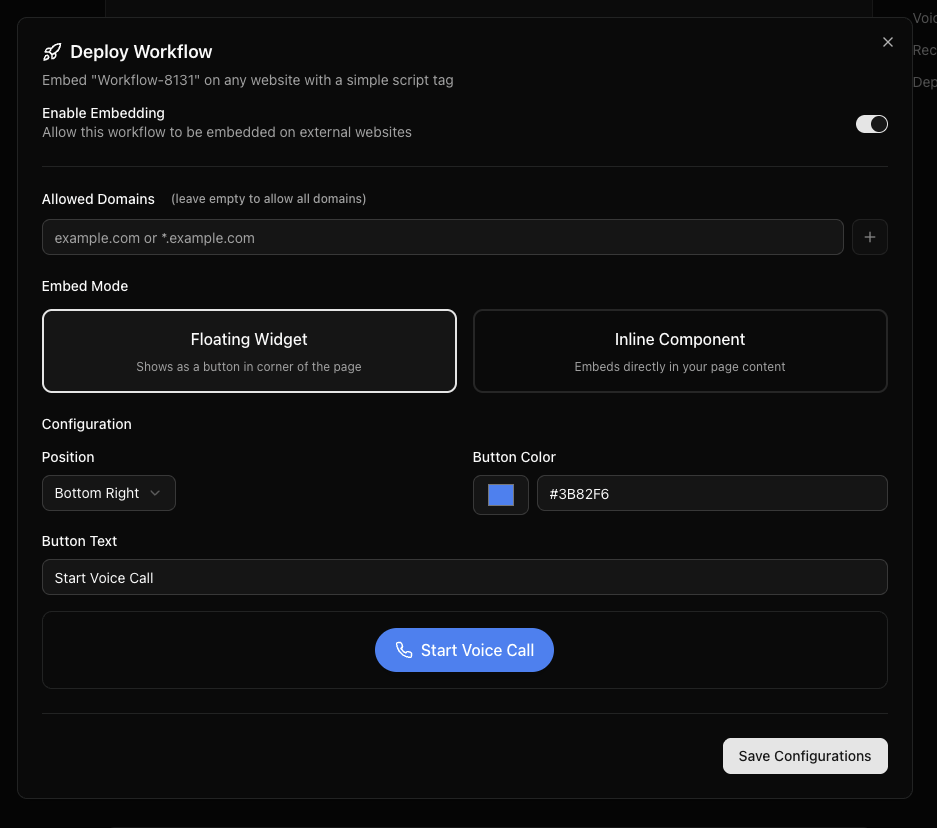
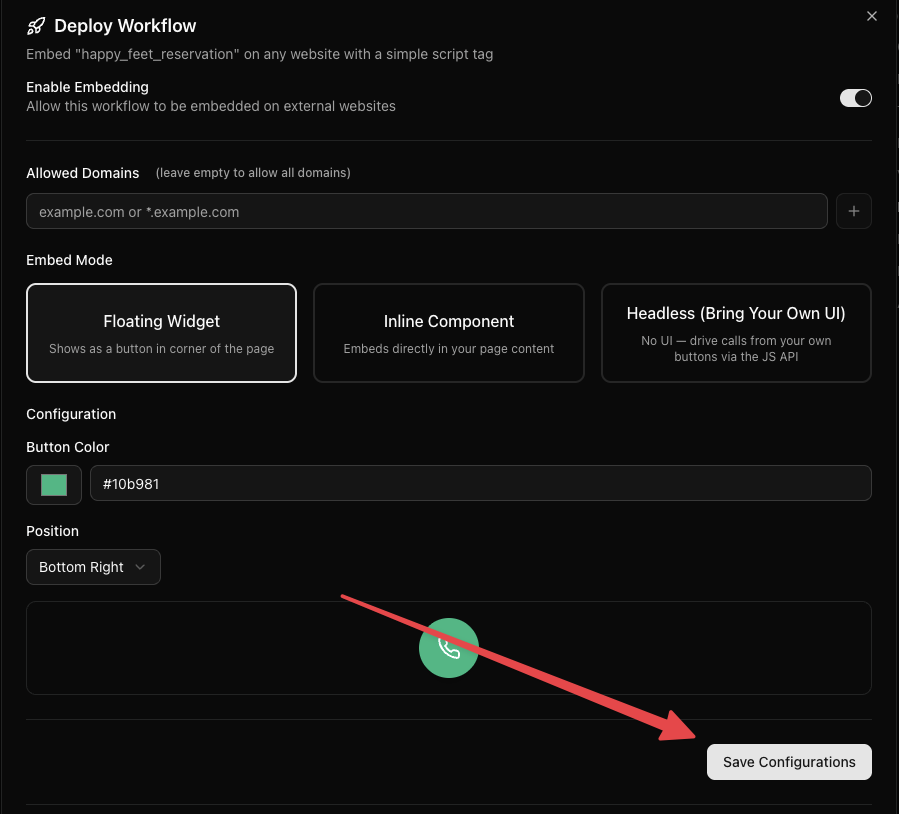
feat: add headless widget for deployment

diff --git a/ui/src/app/workflow/[workflowId]/components/EmbedDialog.tsx b/ui/src/app/workflow/[workflowId]/components/EmbedDialog.tsx
@@ -61,7 +61,7 @@ export function EmbedDialog({
     const [isEnabled, setIsEnabled] = useState(false);
     const [domains, setDomains] = useState<string[]>([]);
     const [newDomain, setNewDomain] = useState("");
-    const [embedMode, setEmbedMode] = useState<"floating" | "inline">("floating");
+    const [embedMode, setEmbedMode] = useState<"floating" | "inline" | "headless">("floating");
     const [position, setPosition] = useState("bottom-right");
     const [buttonText, setButtonText] = useState("Start Call");
     const [buttonColor, setButtonColor] = useState("#10b981");
@@ -81,7 +81,7 @@ export function EmbedDialog({
                 // Load settings
                 if (response.data.settings) {
                     const settings = response.data.settings as Record<string, string>;
-                    setEmbedMode((settings.embedMode as "floating" | "inline") || "floating");
+                    setEmbedMode((settings.embedMode as "floating" | "inline" | "headless") || "floating");
                     setPosition(settings.position || "bottom-right");
                     setButtonText(settings.buttonText || "Start Call");
                     setButtonColor(settings.buttonColor || "#10b981");
@@ -266,7 +266,7 @@ export function EmbedDialog({
                                 {/* Embed Mode Selection */}
                                 <div className="space-y-4">
                                     <Label>Embed Mode</Label>
-                                    <div className="grid grid-cols-2 gap-4">
+                                    <div className="grid grid-cols-3 gap-4">
                                         <button
                                             type="button"
                                             onClick={() => setEmbedMode("floating")}
@@ -299,6 +299,22 @@ export function EmbedDialog({
                                                 </div>
                                             </div>
                                         </button>
+                                        <button
+                                            type="button"
+                                            onClick={() => setEmbedMode("headless")}
+                                            className={`p-4 rounded-lg border-2 transition-all ${
+                                                embedMode === "headless"
+                                                    ? "border-primary bg-primary/5"
+                                                    : "border-muted hover:border-muted-foreground/20"
+                                            }`}
+                                        >
+                                            <div className="space-y-2">
+                                                <div className="font-medium">Headless (Bring Your Own UI)</div>
+                                                <div className="text-xs text-muted-foreground">
+                                                    No UI — drive calls from your own buttons via the JS API
+                                                </div>
+                                            </div>
+                                        </button>
                                     </div>
                                 </div>
 
@@ -306,26 +322,28 @@ export function EmbedDialog({
                                 <div className="space-y-4">
                                     <Label>Configuration</Label>
 
-                                    {/* Shared: Button Color */}
-                                    <div className="space-y-2">
-                                        <Label htmlFor="button-color" className="text-sm">Button Color</Label>
-                                        <div className="flex gap-2">
-                                            <Input
-                                                id="button-color-picker"
-                                                type="color"
-                                                value={buttonColor}
-                                                onChange={(e) => setButtonColor(e.target.value)}
-                                                className="w-14 h-10 cursor-pointer"
-                                            />
-                                            <Input
-                                                id="button-color"
-                                                value={buttonColor}
-                                                onChange={(e) => setButtonColor(e.target.value)}
-                                                placeholder="#10b981"
-                                                className="flex-1"
-                                            />
+                                    {/* Shared: Button Color (skipped in headless — host renders its own UI) */}
+                                    {embedMode !== "headless" && (
+                                        <div className="space-y-2">
+                                            <Label htmlFor="button-color" className="text-sm">Button Color</Label>
+                                            <div className="flex gap-2">
+                                                <Input
+                                                    id="button-color-picker"
+                                                    type="color"
+                                                    value={buttonColor}
+                                                    onChange={(e) => setButtonColor(e.target.value)}
+                                                    className="w-14 h-10 cursor-pointer"
+                                                />
+                                                <Input
+                                                    id="button-color"
+                                                    value={buttonColor}
+                                                    onChange={(e) => setButtonColor(e.target.value)}
+                                                    placeholder="#10b981"
+                                                    className="flex-1"
+                                                />
+                                            </div>
                                         </div>
-                                    </div>
+                                    )}
 
                                     {/* Floating mode: Position */}
                                     {embedMode === "floating" && (
@@ -371,8 +389,8 @@ export function EmbedDialog({
                                         </>
                                     )}
 
-                                    {/* Preview */}
-                                    {embedMode === "floating" ? (
+                                    {/* Preview (skipped for headless — host renders its own UI) */}
+                                    {embedMode === "headless" ? null : embedMode === "floating" ? (
                                         <div className="rounded-lg border bg-background p-4 flex items-center justify-center">
                                             <div
                                                 className="w-[60px] h-[60px] rounded-full flex items-center justify-center shadow-lg"
@@ -406,6 +424,64 @@ export function EmbedDialog({
                                                 >
                                                     {buttonText}
                                                 </button>
+                                            </div>
+                                        </div>
+                                    )}
+
+                                    {/* Headless mode: Integration Instructions */}
+                                    {embedMode === "headless" && (
+                                        <div className="space-y-3">
+                                            <div className="rounded-lg bg-muted/50 p-4">
+                                                <h4 className="font-medium mb-2">Integration Instructions</h4>
+                                                <ul className="text-sm space-y-2 text-muted-foreground">
+                                                    <li>• Add the embed script tag to your page (see below).</li>
+                                                    <li>• The widget renders no UI — render your own buttons.</li>
+                                                    <li>• Call <code className="text-xs">window.DograhWidget.start()</code> to begin a call.</li>
+                                                    <li>• Call <code className="text-xs">window.DograhWidget.end()</code> to end it.</li>
+                                                    <li>• Subscribe to <code className="text-xs">onCallStart</code>, <code className="text-xs">onCallEnd</code>, <code className="text-xs">onStatusChange</code>, <code className="text-xs">onError</code> to drive your UI.</li>
+                                                    <li>• <code className="text-xs">start()</code> must run inside a user-gesture handler (click) so the browser grants microphone access.</li>
+                                                </ul>
+                                            </div>
+
+                                            <div className="rounded-lg bg-blue-50 dark:bg-blue-950/20 p-4 border border-blue-200 dark:border-blue-800">
+                                                <h4 className="font-medium mb-2 text-blue-900 dark:text-blue-100">Example — track status in your own state</h4>
+                                                <p className="text-xs text-blue-900/80 dark:text-blue-100/80 mb-2">
+                                                    Mirror the call status into a variable you control, then render whatever UI you like from it. The status values are <code className="text-xs">idle</code>, <code className="text-xs">connecting</code>, <code className="text-xs">connected</code>, <code className="text-xs">failed</code>.
+                                                </p>
+                                                <pre className="text-xs overflow-x-auto">
+                                                    <code className="text-blue-800 dark:text-blue-200">{`// Vanilla JS — keep your own state, render however you want
+let callStatus = 'idle';
+
+window.DograhWidget?.onStatusChange((status) => {
+  callStatus = status;
+  // ...trigger your render here (re-paint DOM, dispatch event, etc.)
+});
+
+document.getElementById('talk-btn').addEventListener('click', () => {
+  if (callStatus === 'connected' || callStatus === 'connecting') {
+    window.DograhWidget.end();
+  } else {
+    window.DograhWidget.start();
+  }
+});`}</code>
+                                                </pre>
+                                                <p className="text-xs text-blue-900/80 dark:text-blue-100/80 mt-3 mb-2">React:</p>
+                                                <pre className="text-xs overflow-x-auto">
+                                                    <code className="text-blue-800 dark:text-blue-200">{`function TalkButton() {
+  const [status, setStatus] = useState('idle');
+
+  useEffect(() => {
+    window.DograhWidget?.onStatusChange(setStatus);
+  }, []);
+
+  const isLive = status === 'connected' || status === 'connecting';
+  return (
+    <button onClick={() => isLive ? window.DograhWidget.end() : window.DograhWidget.start()}>
+      {/* render anything you want from \`status\` */}
+    </button>
+  );
+}`}</code>
+                                                </pre>
                                             </div>
                                         </div>
                                     )}

diff --git a/ui/public/embed/dograh-widget.js b/ui/public/embed/dograh-widget.js
@@ -125,13 +125,14 @@
 
     state.isInitialized = true;
 
-    // Load styles
-    injectStyles();
-
     // Create widget UI based on mode
     if (state.config.embedMode === 'inline') {
+      injectStyles();
       createInlineWidget();
+    } else if (state.config.embedMode === 'headless') {
+      createHeadlessWidget();
     } else {
+      injectStyles();
       createFloatingWidget();
     }
 
@@ -295,6 +296,18 @@
     document.body.appendChild(container);
 
     // Store audio element reference
+    state.audioElement = audio;
+  }
+
+  /**
+   * Create headless widget (no UI — host page drives everything via window.DograhWidget API)
+   */
+  function createHeadlessWidget() {
+    const audio = document.createElement('audio');
+    audio.id = 'dograh-widget-audio';
+    audio.autoplay = true;
+    audio.style.display = 'none';
+    document.body.appendChild(audio);
     state.audioElement = audio;
   }
 
@@ -582,6 +595,10 @@
     // Use appropriate update function based on mode
     if (state.config.embedMode === 'inline') {
       updateInlineStatus(status, text, subtext);
+    } else if (state.config.embedMode === 'headless') {
+      if (state.callbacks.onStatusChange) {
+        state.callbacks.onStatusChange(status, text, subtext);
+      }
     } else {
       updateFloatingButton(status);
     }